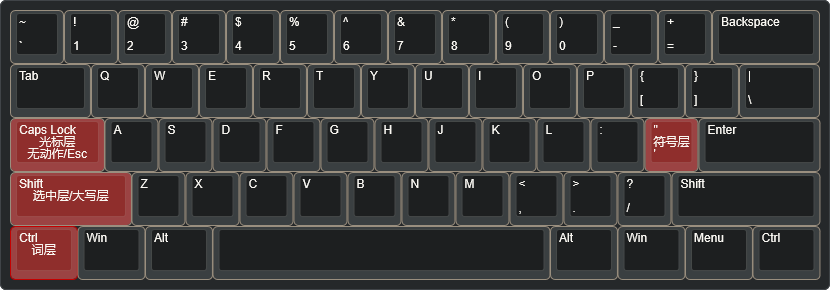
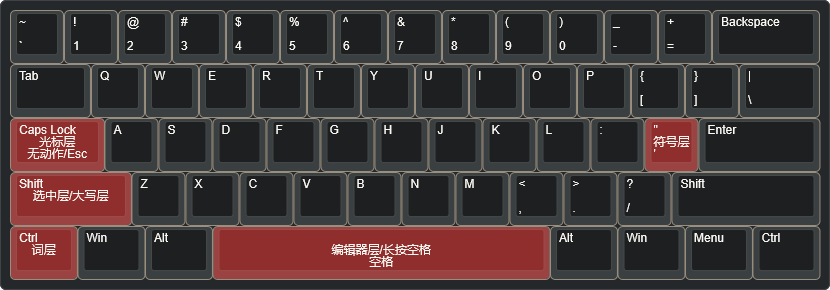
docs: add space layout

Changed region(s): [[0.241, 0.7759, 0.6627, 0.9621], [0.0, 0.7759, 0.0904, 0.8069], [0.0301, 0.9621, 0.0904, 0.9931]]

diff --git a/src/Tauri/src-tauri/src/ad_shortcut.rs b/src/Tauri/src-tauri/src/ad_shortcut.rs
@@ -328,8 +328,9 @@ pub fn init_ad_shortcut(app_handle: tauri::AppHandle) {
                 simu3(enigo::Key::Shift, Press); simu3(enigo::Key::End, Click); simu3(enigo::Key::Shift, Release);
                 return None
             }
-            if event.event_type == EventType::KeyPress(Key::KeyN) || event.event_type == EventType::KeyPress(Key::KeyM) {
-                println!("Caps+N/M detected!");
+            if event.event_type == EventType::KeyPress(Key::KeyN) ||
+                event.event_type == EventType::KeyPress(Key::KeyM
+            ) {
                 // 有bug: 这里会通知前端，召唤出窗口。但窗口召唤后这里的按键监听会失效，并且鼠标无法移动，疑似卡死
                 // 但可以按 Esc 退出窗口，并再单击一下 Caps 键。能恢复正常
                 // 
@@ -423,6 +424,23 @@ pub fn init_ad_shortcut(app_handle: tauri::AppHandle) {
             if event.event_type == EventType::KeyPress(Key::KeyO) {
                 simu3(enigo::Key::Control, Press); simu3(enigo::Key::Shift, Press); simu3(enigo::Key::Z, Click);
                 simu3(enigo::Key::Shift, Release); simu3(enigo::Key::Control, Release);
+                return None
+            }
+
+            if event.event_type == EventType::KeyPress(Key::KeyN) ||
+                event.event_type == EventType::KeyPress(Key::KeyM
+            ) {
+                // 有bug: 这里会通知前端，召唤出窗口。但窗口召唤后这里的按键监听会失效，并且鼠标无法移动，疑似卡死
+                // 但可以按 Esc 退出窗口，并再单击一下 Caps 键。能恢复正常
+                // 
+                // 问题定位: Caps 激活状态阻止了一些事件。而在新窗口中松开 Caps 无效，返回原状态后依然视为 Caps 激活态。
+                // 此时要按一下 Caps 恢复正常
+                // 
+                // 需要解决: 最好是能在通知前端并弹出新窗口后，依然能继续监听到事件。从而捕获在那之后的各种按键。包括 Caps 松开
+                // 
+                // 在解决这个bug之前，这里会强制松开Caps层
+                app_handle.emit("active-window-toggle", ()).unwrap();
+                space_active.set(false); // 在解决这个bug之前，这里会强制松开Caps层
                 return None
             }
         }

diff --git a/docs/zh/quick_keys/keyboard-layout-backup.md b/docs/zh/quick_keys/keyboard-layout-backup.md
@@ -8,8 +8,8 @@
 ["~\n`","!\n1","@\n2","#\n3","$\n4","%\n5","^\n6","&\n7","*\n8","(\n9",")\n0","_\n-","+\n=",{w:2},"Backspace"],
 [{w:1.5},"Tab","Q","W","E","R","T","Y","U","I","O","P","{\n[","}\n]",{w:1.5},"|\n\\"],
 [{c:"#b35050",w:1.75},"Caps Lock\n\n\n\n\n\n\n\n\n光标层\n无动作/Esc",{c:"#cccccc"},"A","S","D","F","G","H","J","K","L",":",{c:"#b35050"},"\"\n'\n\n\n\n\n\n\n\n符号层",{c:"#cccccc",w:2.25},"Enter"],
-[{w:2.25},"Shift","Z","X","C","V","B","N","M","<\n,",">\n.","?\n/",{w:2.75},"Shift"],
-[{w:1.25},"Ctrl",{w:1.25},"Win",{w:1.25},"Alt",{a:7,w:6.25},"",{a:4,w:1.25},"Alt",{w:1.25},"Win",{w:1.25},"Menu",{w:1.25},"Ctrl"]
+[{c:"#b35050",w:2.25},"Shift\n\n\n\n\n\n\n\n\n选中层/大写层",{c:"#cccccc"},"Z","X","C","V","B","N","M","<\n,",">\n.","?\n/",{w:2.75},"Shift"],
+[{c:"#b35050",w:1.25},"Ctrl\n\n\n\n\n\n\n\n\n词层",{c:"#cccccc",w:1.25},"Win",{w:1.25},"Alt",{c:"#b35050",a:5,w:6.25},"\n空格\n\n\n\n\n编辑器层/长按空格",{c:"#cccccc",a:4,w:1.25},"Alt",{w:1.25},"Win",{w:1.25},"Menu",{w:1.25},"Ctrl"]
 ```
 
 ## Caps-光标层
@@ -64,7 +64,7 @@
 [{w:1.25},"Ctrl",{w:1.25},"Win",{w:1.25},"Alt",{c:"#407DD5",a:5,w:6.25},"\n0",{c:"#cccccc",a:4,w:1.25},"Alt",{w:1.25},"Win",{w:1.25},"Menu",{w:1.25},"Ctrl"]
 ```
 
-## 符号层
+## 引号-符号层
 
 ```json
 ["~\n`","!\n1","@\n2","#\n3","$\n4","%\n5","^\n6","&\n7","*\n8","(\n9",")\n0","_\n-","+\n=",{w:2},"Backspace"],
@@ -74,7 +74,15 @@
 [{w:1.25},"Ctrl",{w:1.25},"Win",{w:1.25},"Alt",{a:7,w:6.25},"",{a:4,w:1.25},"Alt",{w:1.25},"Win",{w:1.25},"Menu",{w:1.25},"Ctrl"]
 ```
 
-## 空格层
+## 空格-编辑器层
+
+```json
+["¬\n`","!\n1","\"\n2","£\n3","$\n4","%\n5","^\n6","&\n7","*\n8","(\n9",")\n0","_\n-","+\n=",{w:2},"Backspace"],
+[{w:1.5},"Tab","Q","W","E","R","T","Y","U",{c:"#2D6CA1"},"I\n\n\n\n\n\n\n\n\n\n撤回","O\n\n\n\n\n\n\n\n\n\n重做",{c:"#cccccc"},"P","{\n[","}\n]",{x:0.25,w:1.25,h:2,w2:1.5,h2:1,x2:-0.25},"Enter"],
+[{w:1.75},"Caps Lock","A","S","D","F","G","H","J","K","L",":\n;","@\n'","~\n#"],
+[{w:1.25},"Shift","|\n\\","Z","X","C","V","B","N\n\n\n\n\n\n\n\n\n\nANote","M\n\n\n\n\n\n\n\n\n\nAMenu","<\n,",">\n.","?\n/",{w:2.75},"Shift"],
+[{w:1.25},"Ctrl",{w:1.25},"Win",{w:1.25},"Alt",{c:"#615555",a:5,w:6.25},"\n空格\n\n\n\n\n被占/长按空格",{c:"#cccccc",a:4,w:1.25},"AltGr",{w:1.25},"Win",{w:1.25},"Menu",{w:1.25},"Ctrl"]
+```
 
 ## vim默认层
 

diff --git a/docs/zh/quick_keys/Tutorial.md b/docs/zh/quick_keys/Tutorial.md
@@ -52,16 +52,18 @@ Caps 与其子层与 Shift 按键完全兼容，**可以同时按住 Caps 和 Sh
 
 ![](../../assets/keyboard-layout-num.png)
 
-### 符号层
+### 引号-符号层
 
 > [!warning]
 > 对于 kanata 和 autohotkey 来说，当前的成对括号部分不是很好用，无法在保证快速的前提下识别是否有选中内容。AnyMenu 版本则无此问题
 
 ![](../../assets/keyboard-layout-sign.png)
 
-## 空格层
+## 空格-编辑器层
 
 这层基本与编辑器相关，需要编辑器配合。例如文本环境得支持历史栈才能用的撤销恢复 (而且恢复可能是 c-s-z 或 c-y)
+
+![](../../assets/keyboard-layout-space.png)
 
 > 记忆小技巧：在文本输入的过程中，特别是输入法组合输入时，撤销操作会有点像智能字/词单位的 Backspace，所以这里也给到 I 键，逻辑统一
 
